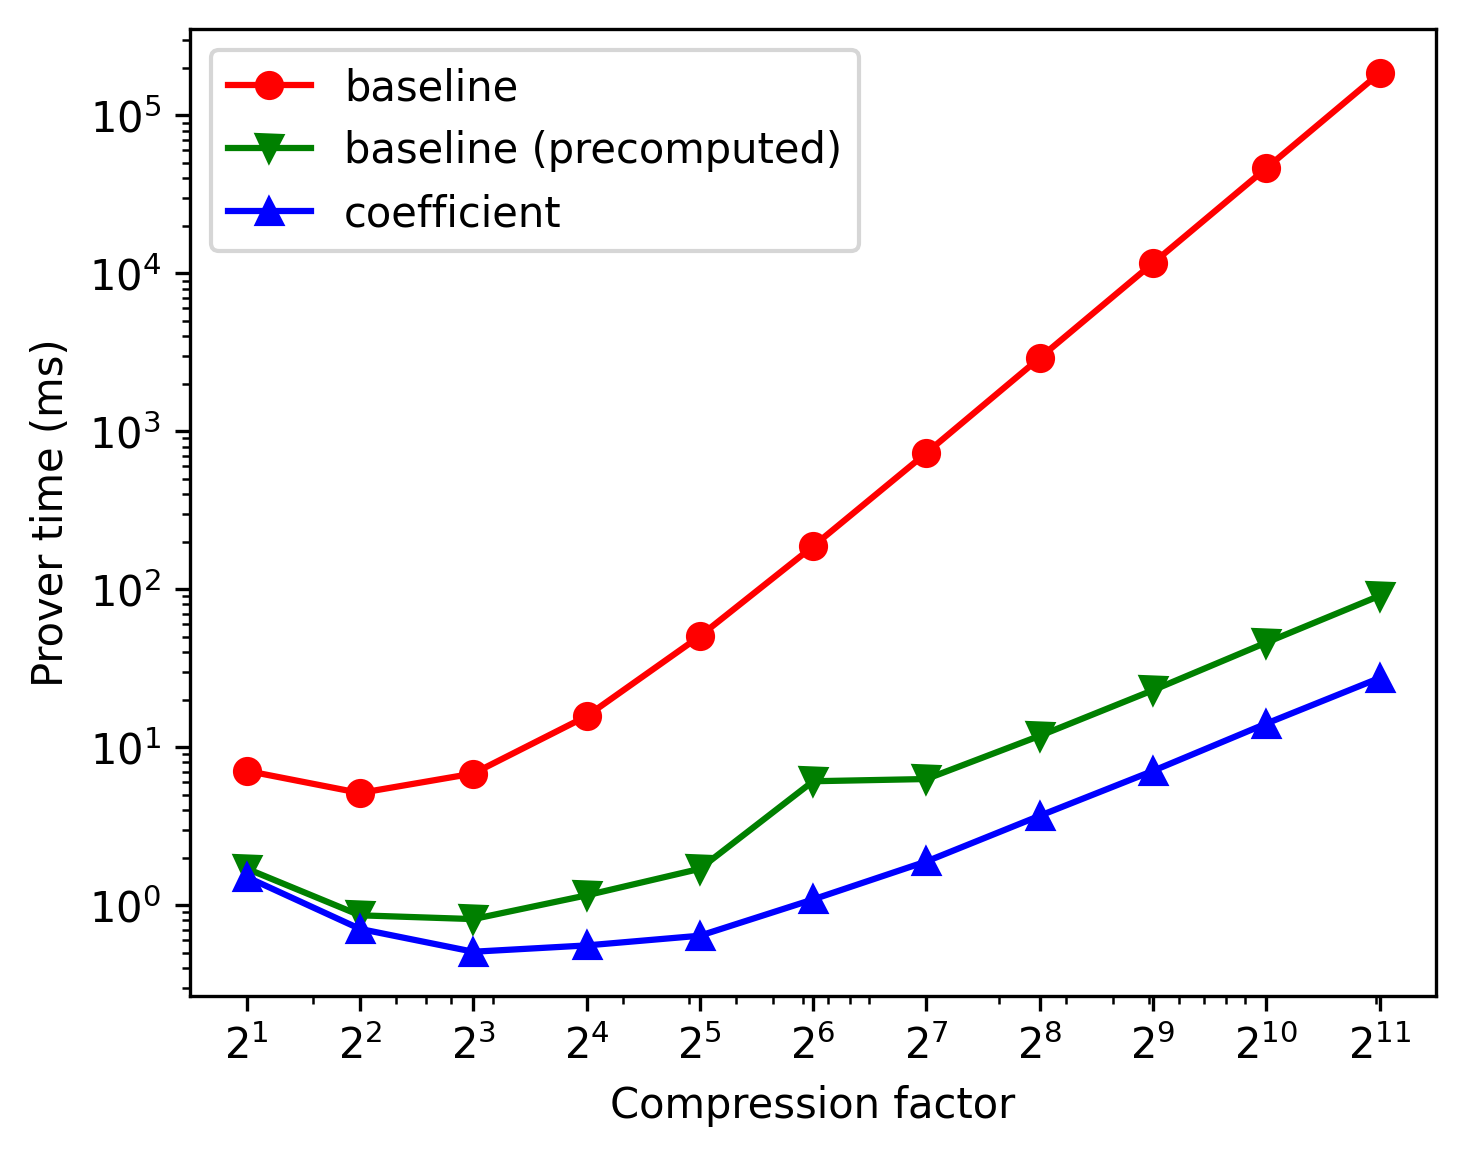
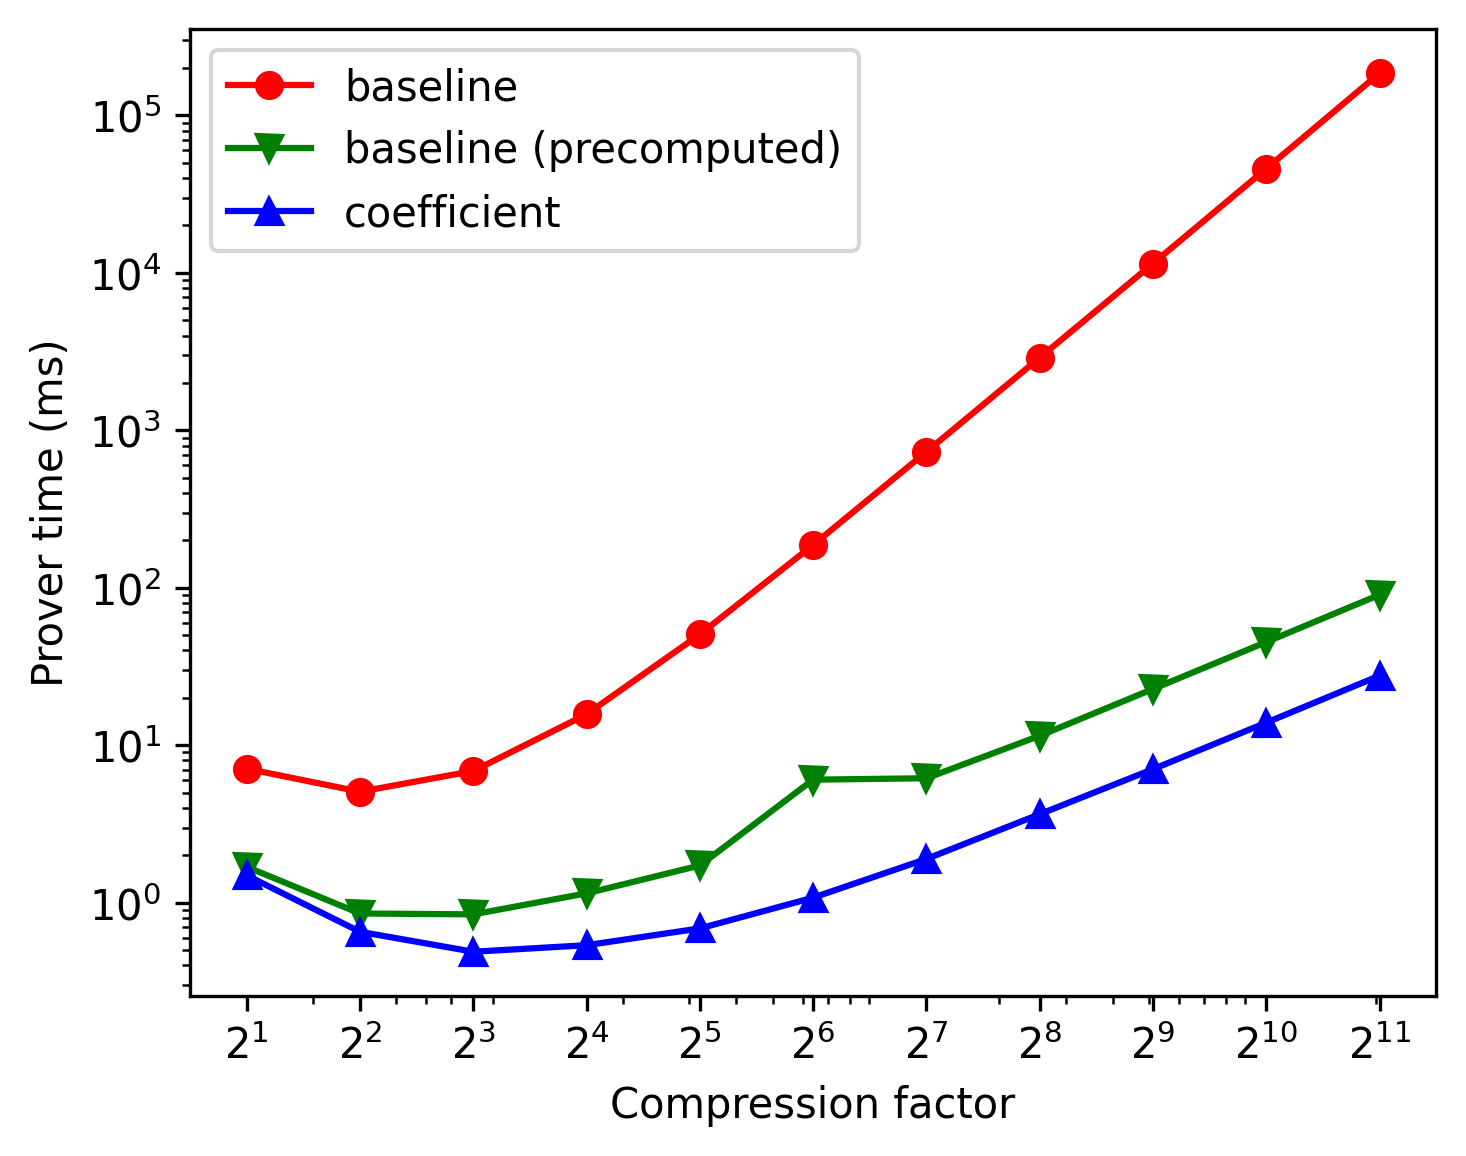
fix: remove precomputation time of last round

diff --git a/experiments/two_party_computation.hpp b/experiments/two_party_computation.hpp
@@ -496,7 +496,12 @@ FLIOPMeasurement TwoPC<Int>::FLIOPWithPrecompute(const size_t seed, const size_t
     std::vector<Int> finalProverRandoms = finalProof.GetRandoms(2);
     verOp0.insert(verOp0.begin(), finalProverRandoms[0]);
     verOp1.insert(verOp1.begin(), finalProverRandoms[1]);
+    end = std::chrono::high_resolution_clock::now();
+    double verifierTime = std::chrono::duration_cast<std::chrono::nanoseconds>(end - start).count();
+
     SquareMatrix<Int> finalVan = SquareMatrix<Int>::GetVandermondeInverse(verOp0.size());
+
+    start = std::chrono::high_resolution_clock::now();
     Polynomial<Int> finalOp0 = Polynomial<Int>::VandermondeInterpolation(verOp0.data(), verOp0.size(), finalVan);
     Polynomial<Int> finalOp1 = Polynomial<Int>::VandermondeInterpolation(verOp1.data(), verOp1.size(), finalVan);
     Int gR = finalOp0.Evaluate(finalVerifierRandom) * finalOp1.Evaluate(finalVerifierRandom);
@@ -504,7 +509,7 @@ FLIOPMeasurement TwoPC<Int>::FLIOPWithPrecompute(const size_t seed, const size_t
               (finalProof.GetQueryAnswer(queries[queries.size() - 1]) == out);
 
     end = std::chrono::high_resolution_clock::now();
-    double verifierTime = std::chrono::duration_cast<std::chrono::nanoseconds>(end - start).count();
+    verifierTime += std::chrono::duration_cast<std::chrono::nanoseconds>(end - start).count();
 
     totalQueryComplexity += 2;
 

diff --git a/main.cpp b/main.cpp
@@ -1,12 +1,11 @@
 #include "math\mpint64.hpp"
-#include "experiments\multi_party_computation.hpp"
+#include "experiments\two_party_computation.hpp"
 
 #include "math\sha512.hpp"
 
 int main(int argc, char* argv[])
 {
-    MPC<Mpint64> mpc(23571113, 65536, 64, 9);
-    mpc.FindBestFLIOPSchedule(true);
+    TwoPC<Mpint64>::ExperimentFLIOP();
     system("pause");
     return 0;
 }
